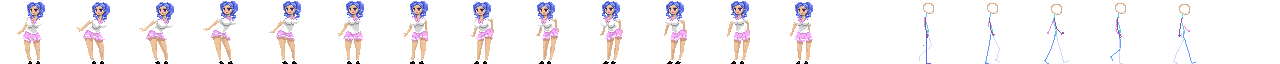
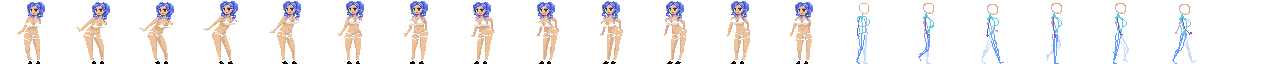
Restore Accel/Decel Animation

diff --git a/assets/js/girl_animator.js b/assets/js/girl_animator.js
@@ -51,19 +51,17 @@ girl_animator.addRightAnimation = function (){
 
 controls.moveRight.onDown.add(function(){
       if(!girl.isJumping){
-      // girl.accel.onComplete.add(function(){girl.walk.play();}, this);
-      // girl.accel.play();
-      girl.walk.play()
+      girl.accel.onComplete.add(function(){girl.walk.play();}, this);
+      girl.accel.play();
     }
 
     });
     controls.moveRight.onUp.add(function(){
       if(!controls.moveLeft.isDown && !girl.isJumping){
-        // girl.decel.onComplete.add(function(){
-        //   girl.idle.play();
-        // }, this);
-        // girl.decel.play();
-        girl.idle.play();
+        girl.decel.onComplete.add(function(){
+          girl.idle.play();
+        }, this);
+        girl.decel.play();
       }
     });
 };
@@ -73,18 +71,16 @@ girl_animator.addLeftAnimation = function (){
 
     controls.moveLeft.onDown.add(function(){
       if(!girl.isJumping){
-      // girl.accel.onComplete.add(function(){girl.walk.play();}, this);
-      // girl.accel.play();
-      girl.walk.play();
+      girl.accel.onComplete.add(function(){girl.walk.play();}, this);
+      girl.accel.play();
     }
     });
     controls.moveLeft.onUp.add(function(){
       if(!controls.moveRight.isDown&& !girl.isJumping){
-        // girl.decel.onComplete.add(function(){
-        //   girl.idle.play();
-        // }, this);
-        // girl.decel.play();
-        girl.idle.play();
+        girl.decel.onComplete.add(function(){
+          girl.idle.play();
+        }, this);
+        girl.decel.play();
       }
     });
 

diff --git a/assets/js/girl.js b/assets/js/girl.js
@@ -55,7 +55,7 @@ girl.json2 = game.cache.getJSON('girlJson2');
 // Converted Frame Arrays
 girl.girlIdleArray = frame_converter.getAnimArray(girl.json2,[0,1,2,3,4,5,6,7,8,9,10,11,12]);
 girl.girlWalkArray = frame_converter.getAnimArray(girl.json2,[14,15,16,17,18]);
-// girl.girlAccelArray = frame_converter.getAnimArray(girl.json,[8,9,10,11]);
+girl.girlAccelArray = frame_converter.getAnimArray(girl.json2,[13]);
 // girl.girlSlowAccelArray = frame_converter.getAnimArray(girl.json,[8,11]);
 // girl.girlDecelArray = frame_converter.getAnimArray(girl.json,[11,8]);
 // girl.girlBounceArray = frame_converter.getAnimArray(girl.json,[18,19,20,21,22,23,24]);
@@ -63,8 +63,8 @@ girl.girlWalkArray = frame_converter.getAnimArray(girl.json2,[14,15,16,17,18]);
 // Girl Animations
 girl.idle = girl.sprite.animations.add('idle', girl.girlIdleArray,/*FPS speed*/ 40,/*loop*/ true);
 girl.walk = girl.sprite.animations.add('walk',girl.girlWalkArray,/*FPS speed*/ 40,/*loop*/ true);
-// girl.accel = girl.sprite.animations.add('accel', girl.girlAccelArray,/*FPS speed*/ 40);
-// girl.decel = girl.sprite.animations.add('decel', girl.girlDecelArray,/*FPS speed*/ 40);
+girl.accel = girl.sprite.animations.add('accel', girl.girlAccelArray,/*FPS speed*/ 40);
+girl.decel = girl.sprite.animations.add('decel', girl.girlAccelArray,/*FPS speed*/ 40);
 // girl.bounce = girl.sprite.animations.add('bounce',girl.girlBounceArray, /*FPS speed*/ 40);
 
 // Add Animations
